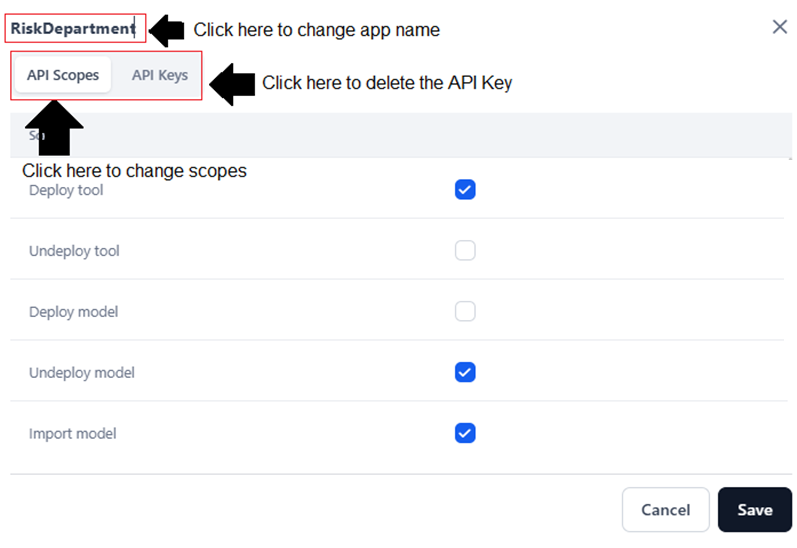
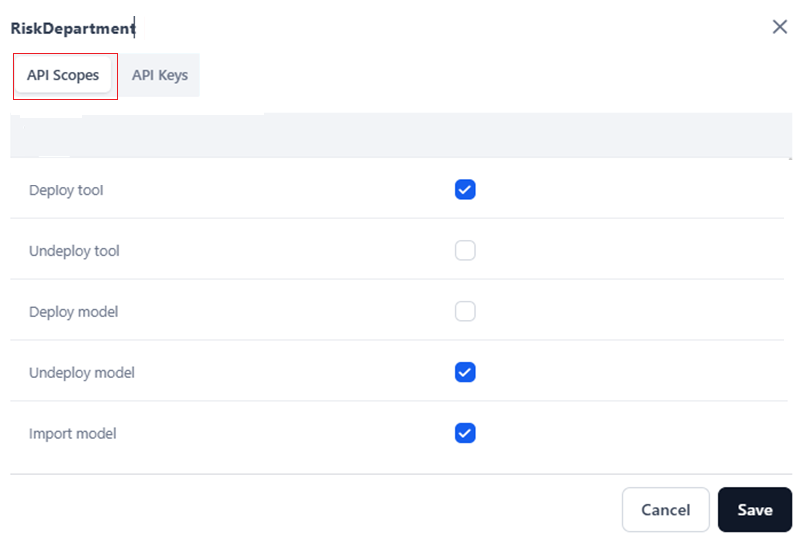
commit: api scopes page edits

Changed region(s): [[0.0, 0.031, 0.6625, 0.3412], [0.0, 0.0, 0.1807, 0.031]]

diff --git a/docs/agent-platform/settings/security-and-control/api-scopes.md b/docs/agent-platform/settings/security-and-control/api-scopes.md
@@ -120,8 +120,7 @@ To access this feature, follow the steps below:
 
 1. Log in to your account and click **Autonomous Agents** under **Agent Platform Modules**.
 2. Click **Settings** on the top navigation bar.
-3. Click **Security & Control** > **API Scopes** on the left navigation menu.
-    <img src="../images/click-api-scopes.png" alt="select api scopes" title="select api scopes" style="border: 1px solid gray; zoom:75%;">
+3. Click **Security & Control** -> **API Scopes** on the left navigation menu.
 
 ## Implement API Scoping
 
@@ -137,20 +136,13 @@ To create an app, follow the steps below:
 
 1. [Access](../security-and-control/api-scopes.md/#access-api-scopes){:target="_blank"} **API Scopes**.
 2. Click **Create an API App** or **Create an App**.
-   <img src="../images/create-an-api-app.png" alt="create api app" title="create api app" style="border: 1px solid gray; zoom:75%;">
-
 3. Click **Untitled app** and provide the app name.
     <img src="../images/provide-app-name.png" alt="provide app name" title="provide app name" style="border: 1px solid gray; zoom:75%;">
 
 4. Select the required scopes from the list.
-    <img src="../images/scopes-selection.png" alt="select scopes" title="select scopes" style="border: 1px solid gray; zoom:75%;">
- 
 5. Click **Next**. 
 
-
-    A success message is displayed, and the following window is displayed. Follow the steps in the [next section](../security-and-control/api-scopes.md/#create-an-api-key){:target="_blank"} to complete the process.
-
-     <img src="../images/api-app-creation-success.png" alt="success app creation" title="success app creation" style="border: 1px solid gray; zoom:75%;">
+    A success message is displayed when the app is created. Follow the steps in the [next section](../security-and-control/api-scopes.md/#create-an-api-key){:target="_blank"} to complete the process.
 
 ### Create an API Key
 
@@ -164,7 +156,7 @@ This step is necessary to complete the app creation process. To create an API Ke
    <img src="../images/create-new-api-key-window.png" alt="create new api key" title="create new api key" style="border: 1px solid gray; zoom:75%;">
 
 
-A success message is displayed once the key is copied.
+A success message is displayed after the key is copied. Additionally, the API key appears for the app on the summary page.
 
 <div class="admonition note">
 <p class="admonition-title">Important information on API Keys</p>
@@ -172,19 +164,15 @@ A success message is displayed once the key is copied.
 <p><b>What Happens If You Lose It?</b></p>
 <p>You’ll need to revoke the old key and <b>generate a new one</b>. This could disrupt services if the key is in use.</p>
 </div>   
- 
-The API key is listed for the app, as shown below.
-<img src="../images/api-keys-list-for-apps.png" alt="api keys list" title="api keys list" style="border: 1px solid gray; zoom:75%;">
 
-<ol start="4"><li>Click <b>Done</b></li>. 
+<ol start="4"><li>Click <b>Done</b>.</li>
 
-The summary on the app displays the following information:
+The app summary page displays the following information:
 
 <ul><li><b>Name</b>: The API app name.</li>
 <li><b>Scopes</b>: The selected API scopes.</li>
 <li><b>Created by</b>: The name of the user who created the app.</li>
 <li><b>Created on</b>: The date when the app was created.</li>
-<img src="../images/api-apps-list.png" alt="apps list" title="apps list" style="border: 1px solid gray; zoom:75%;"></ul></ol> 
 
 ## Manage API App and Key
 
@@ -210,8 +198,6 @@ To edit an API app, follow the steps below:
 
          * Click **Delete** in the confirmation window.
             
-            <img src="../images/del-api-key.png" alt="delete api keys" title="delete api keys" style="border: 1px solid gray; zoom:75%;">
-            
             <div class="admonition warning">
             <p class="admonition-title">Caution</p>
             <p>The key you are deleting will no longer function if it is in use. You must generate a new key.</p>
@@ -232,7 +218,5 @@ To delete an API app, follow the steps below:
    <img src="../images/delete-api-app-icon.png" alt="access delete" title="access delete" style="border: 1px solid gray; zoom:105%;">
 
 2. Click **Delete** in the confirmation window.
-
-      <img src="../images/delete-api-app.png" alt="delete api app" title="delete api app" style="border: 1px solid gray; zoom:55%;">
 
 A success message is displayed, and the app is removed from the list.
